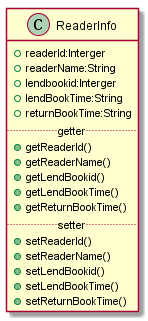
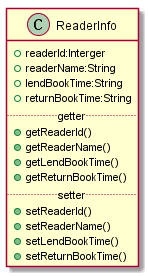
v3.0

Changed region(s): [[0.027, 0.0, 0.973, 0.9855]]

diff --git a/test3/README.md b/test3/README.md
@@ -15,31 +15,33 @@ class 注册用户{
     +sex:String
     +role:String 
     +number:Interger
+    +select()
+    +update()
+    +delete()
+    +pay()
 }
 class 会员{
-    +name:String 
-    +age:Interger
-    +maxBorrowNum:Interger
-    +maxBorrowDays:date
-    +roletime:date
-}
-class 预定的记录{
-    +booktime:date
-    +add()
+    +id:String 
+    +readerId:String
+    +Name:String
+    +sex:String
+    +role:String
+    +number:integer
     +select()
+    +update()
+    +delete()
+    +pay()
 }
-class 借书记录{
-    +lendtime:date
-    +returntime:date
-    +add()
+class 借阅信息{
+    +borrowid:Interger
+    +bookid:char
+    +readerid:char
+    +borrowTime:datetime
     +select()
-}
-class 逾期记录{
-    +continueday:date
-    +lastday:date
-    +returntime:date
-    +add()
-    +select()
+    +update()
+    +delete()
+    +pay()
+    +bookTimeCheck()
 }
 class 超级管理员{
     +mangerId:Interger
@@ -62,6 +64,7 @@ class 管理员信息{
     +select()
     +delete()
     +update()
+    +pay()
 }
 class 读者信息{
     +readerId:Interger 
@@ -70,41 +73,34 @@ class 读者信息{
     +returnBookTime:String
     +select()
     +borrow()
-    +xujie()
-    +yujie()
-    +returnBook()
+    +addbook()
+    +feedback()
     +findBook()
 }
 class 图书信息{
     +bookId:Interger
-    + bookISBN:String
+    +bookISBN:String
     +bookName:String 
     +total:Interger 
-    +stock:Interger 
     +publisher:String 
     +author:String 
     +summary:String
-    +add()
+    +bookinfo()
     +select()
     +delete()
     +update()
-    +setStatus()
+    +feedback()
+    +pay()
 }
 
-读者信息  --*  预定的记录  :借阅
-读者信息 --> 借书记录:添加
-借书记录 --> 管理员信息:增加借阅信息
-借书记录 --> 逾期记录
-逾期记录 --> 管理员信息:处理
-预定的记录 --> 管理员信息 :增加预定记录
-管理员信息  --*  图书信息 :mange
-管理员信息  --*  读者信息  :mange
-超级管理员 "1" -- "多"管理员信息:contains
+借阅信息 -right-* 图书信息
+管理员信息  --|>  读者信息  :mange
+超级管理员  --*  管理员信息
+超级管理员 --|> 图书信息
 读者信息    <|--    注册用户
 读者信息    <|--    会员
-
+读者信息 <|-- 借阅信息
 @enduml
-
 
 ```
 ### 1.2类图
@@ -123,70 +119,65 @@ class 图书信息{
 ### 2.1源码
 ```
 @startuml
+
 object 超级管理员信息{
-    id：007
-    name:"Tom"
-    number：23
-    adress："science and information college"
-    phone：1241255262
+    mangerId：007
+    mangerName:"Tom"
+    mangerNumber：23
+    mangeraAdress："science and information college"
+    mangerPhone：1241255262
 }
 object 普通管理员{
-    id：0107
-    name:"Cathelin"
-    number：23
-    adress："science_and_information_college"
-    phone：1255552622
+    mangerId：0107
+    mangerName:"Cathelin"
+    mangerNumber：23
+    mangerAdress："science_and_information_college"
+    mangerPhone：1255552622
 }
 object 读者{
-    id:s111
-    role：a1
-    booknumber：654655162165
-    lendtime：18-05-01
+    readerId:s111
+    readerName:"Alice"
+    lendBooktime:18-5-1
     returntime：18-5-12
 }
 object 注册用户{
     id:b111
     name："小红"
-    time：18-5-2
+    sex:"fm"
     role：0
-    number：028-5689423
+    number 2
 }
 object 会员用户{
+    id:b222
     name："小李"
-    registtime：18-5-2
+    sex:"m"
     role：a1
-    nunber：028-5689423
-    maxBorrowNum：12
-    maxBorrowTime：10 "天"
+    nunber：20
 }
 object 借书记录{
-    lendtime：18-2-5
-}
-object 还书记录{
-    returntime：18-3-5
-}
-object 逾期记录{
-    maxBorrowTime：10 "天"
-    returntime：18-3-8
+    borrowid:003
+    bookid:a22
+    readerid:b111
+    borrowtime：18-2-5
 }
 object 图书信息{
     bookid:s12314
     bookName："《时间简史》"
     bookISBN：159-456-763-5612
-    author："奥斯特洛夫斯基"
+    author："史蒂芬·霍金"
     publisher："成都大学出版社"
-    ......
+    total:50
+    summary:"著名物理学家史提芬霍金所著"
 }
 超级管理员信息 --* 普通管理员:管理
-普通管理员 --* 图书信息
-普通管理员 --* 借书记录
-普通管理员 --* 还书记录
-普通管理员 --* 逾期记录
-普通管理员 --* 读者
-
-读者 *-- 注册用户
-读者 *-- 会员用户
+普通管理员 --|> 读者
+借书记录 -right-* 图书信息
+读者 <|-- 借书记录
+超级管理员信息 --|> 图书信息
+读者 <|-- 注册用户
+读者 <|-- 会员用户
 @enduml
+
 ```
 ### 2.2图片
 ![](./test3_2.png '描述')
@@ -198,6 +189,7 @@ object 图书信息{
 源码
 ```
 @startuml
+
 class MangeInfo{
     +mangerId:Interger
     +mangerName:String
@@ -232,7 +224,6 @@ class Book{
     +bookISBN:String
     +bookName:String 
     +total:Interger 
-    +stock:Interger 
     +publisher:String 
     +author:String 
     +summary:String
@@ -241,7 +232,6 @@ class Book{
     +getBookISBN()
     +getBookName()
     +getTotal()
-    +getStock()
     +getPublisher()
     +getAuthor()
     +getSummary()
@@ -250,7 +240,6 @@ class Book{
     +setBookISBN()
     +setBookName()
     +setTotal()
-    +setStock()
     +setPublisher()
     +setAuthor()
     +setSummary() 
@@ -270,19 +259,16 @@ class Book{
 class ReaderInfo{
     +readerId:Interger 
     +readerName:String 
-    +lendbookid:Interger
     +lendBookTime:String 
     +returnBookTime:String
     ..getter..
     +getReaderId()
     +getReaderName()
-    +getLendBookid()
     +getLendBookTime()
     +getReturnBookTime()
     ..setter..
     +setReaderId()
     +setReaderName()
-    +setLendBookid()
     +setLendBookTime()
     +setReturnBookTime() 
 }
